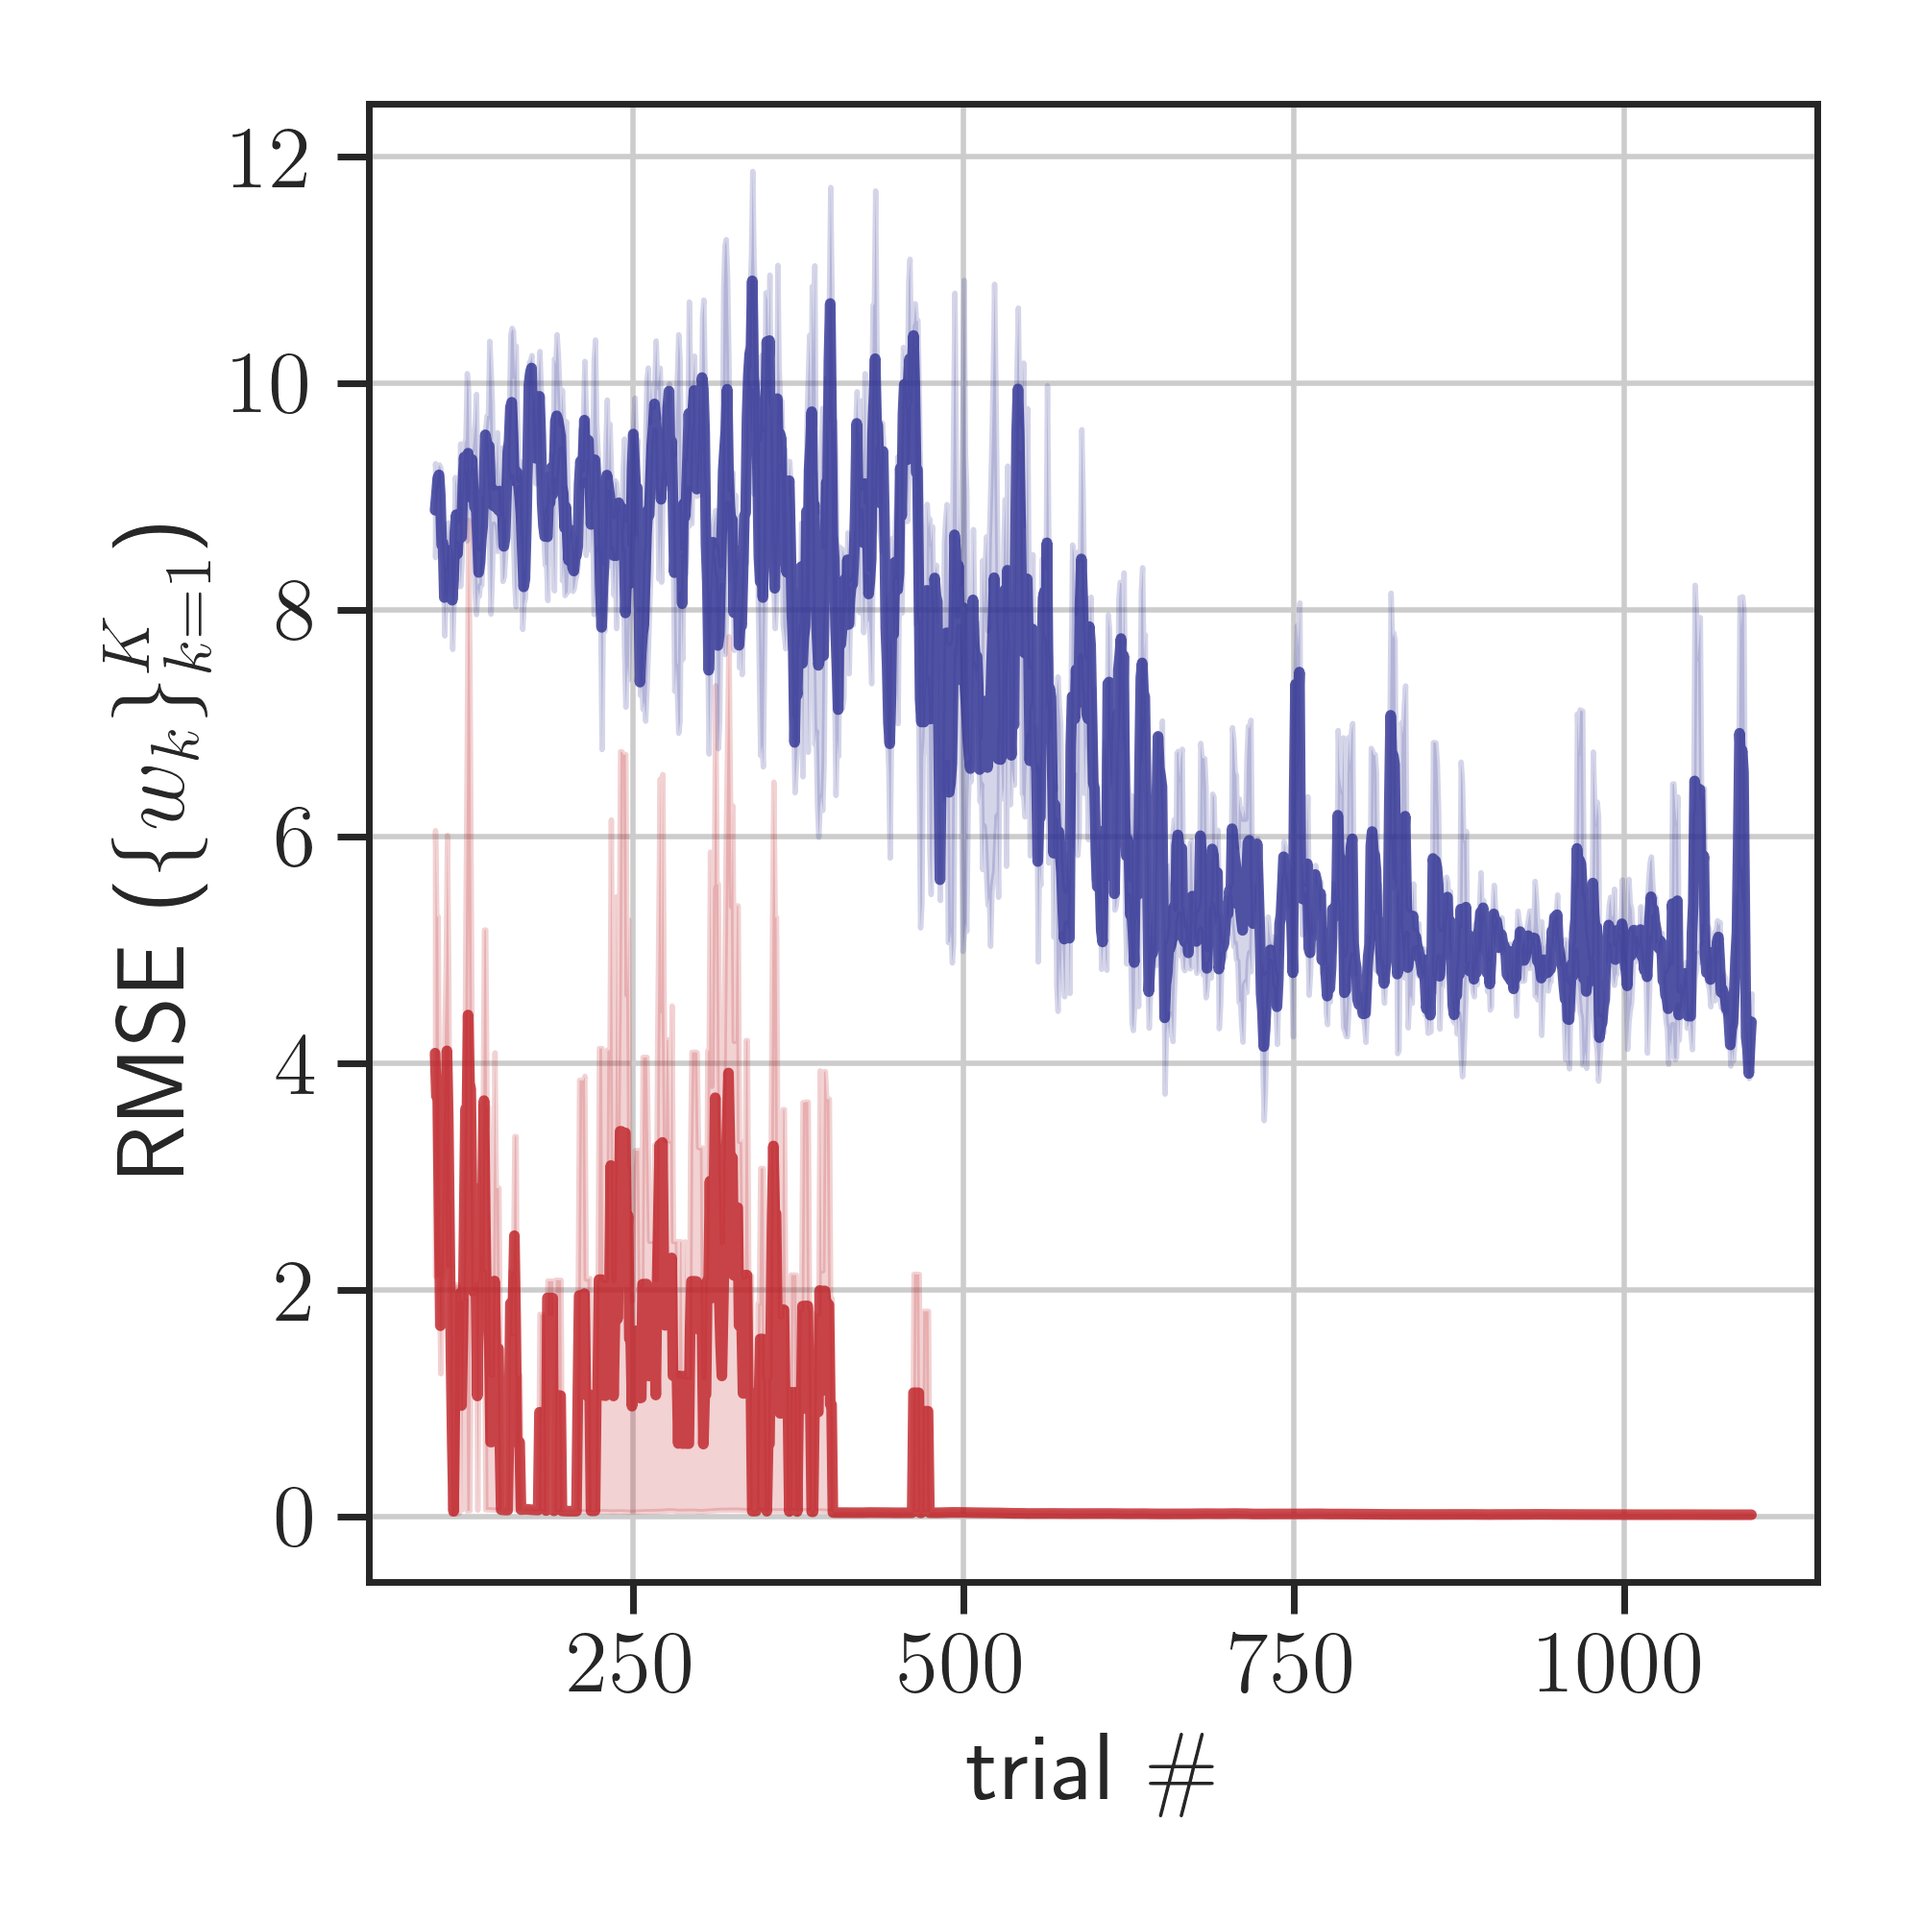
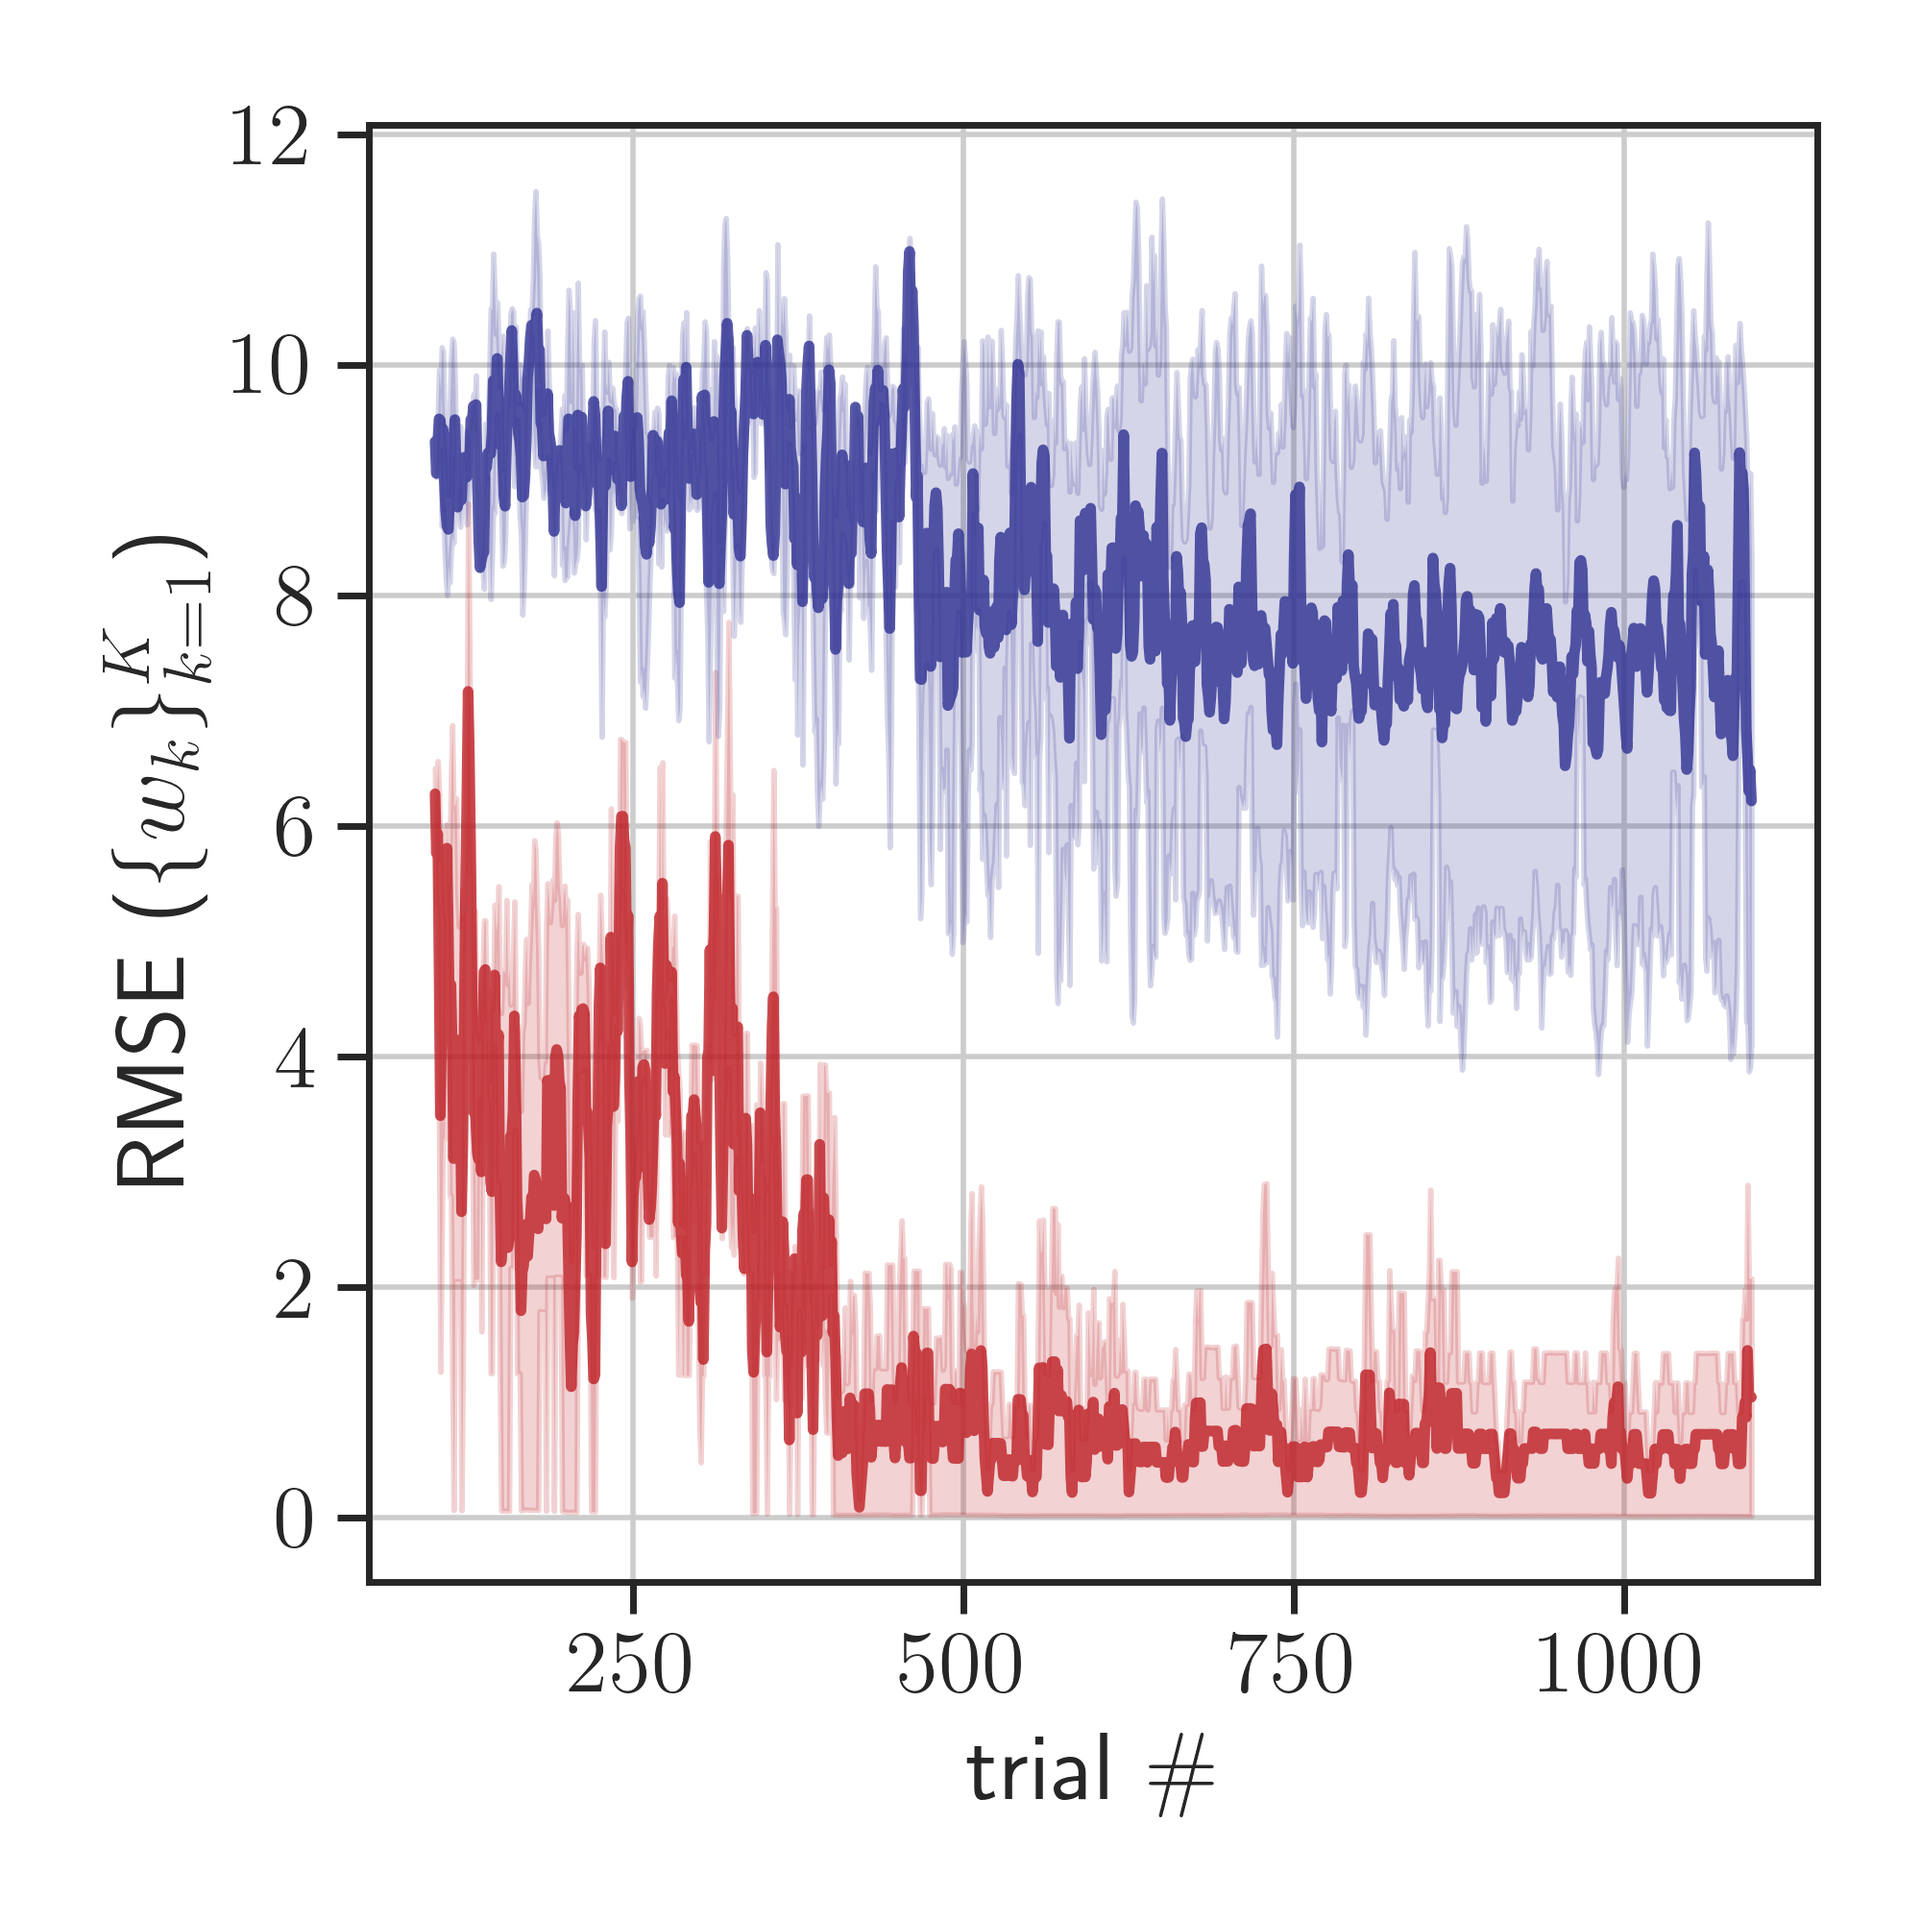
harder instance

Changed region(s): [[0.124, 0.031, 0.961, 0.806], [0.062, 0.248, 0.124, 0.62], [0.155, 0.403, 0.186, 0.434]]

diff --git a/mglm/mcmc.py b/mglm/mcmc.py
@@ -15,9 +15,11 @@ seed = args.seed
 np.random.seed(seed)
 
 # * * * Set parameters of MGLM * * *
-num_states = 2  # number of discrete states
+# num_states = 2  # number of discrete states
+num_states = 3  # number of discrete states
 obs_dim = 1  # data dimension
-input_dim = 2 # input dimension
+# input_dim = 2 # input dimension
+input_dim = 10 # input dimension
 num_categories = 2 # binary output for now
 sigma = 1.5
 
@@ -117,8 +119,12 @@ def mglm_random(seed, T, initial_inputs, K, true_mglm, test_mglm, input_list, bu
 
 
 ## Set parameters
-true_pi0 = np.array([0.6, 0.4])
-true_weights = np.array([[3,-6], [3, 6]])
+# true_pi0 = np.array([0.6, 0.4])
+# true_weights = np.array([[3,-6], [3, 6]])
+true_pi0 = np.array([0.4, 0.3, 0.3])
+true_weights = np.array([[-1.47, 0.07, 0.16, -2.02, 0.14, 0.33, 0.71, 0.80, 1.53, -0.26], 
+                         [-0.12, 1.38, -1.25, 0.88, -0.80, 1.33, -1.43, -0.42, 0.90, -0.47],
+                         [1.14, -1.33, 0.16, 0.23, -1.20, -0.90, 1.40, 0.98, -1.11, 0.60]])
 true_weights_2 = np.reshape(true_weights, (num_states, num_categories-1, input_dim))
 true_mglm = MGLM(K=num_states, D=obs_dim, M=input_dim, C=num_categories, prior_sigma=sigma)
 true_mglm.params = [true_pi0, true_weights_2]

diff --git a/mglm/dlfm.py b/mglm/dlfm.py
@@ -14,10 +14,12 @@ mpl.rcParams['mathtext.fontset'] = 'cm'
 mpl.rcParams['font.family'] = ['sans-serif']
 
 # generate dataset
-K = 2
+# K = 2
+K = 3
 initial_trials = 100
 additional_trials = T = 1000
-num_features = 2
+# num_features = 2
+num_features = 10
 sigma = 1.5
 
 # * * * os dirs * * *
@@ -141,10 +143,15 @@ def mglm_dlfm(features, observations, labels):
     return thetas_val, z_val
 
 def main(seed):
+    # components = [
+    #     {'coef': np.array([3, -6]), 'p': 0.6},
+    #     {'coef': np.array([3, 6]), 'p': 0.4},
+    # ]
     components = [
-        {'coef': np.array([3, -6]), 'p': 0.6},
-        {'coef': np.array([3, 6]), 'p': 0.4},
-    ]
+    {'coef': np.array([-1.47, 0.07, 0.16, -2.02, 0.14, 0.33, 0.71, 0.80, 1.53, -0.26]), 'p': 0.4},
+    {'coef': np.array([-0.12, 1.38, -1.25, 0.88, -0.80, 1.33, -1.43, -0.42, 0.90, -0.47]), 'p': 0.3},
+    {'coef': np.array([1.14, -1.33, 0.16, 0.23, -1.20, -0.90, 1.40, 0.98, -1.11, 0.60]), 'p': 0.3},
+]
 
     features = np.random.uniform(-10, 10, (initial_trials, num_features))
     observations = np.zeros(initial_trials)
